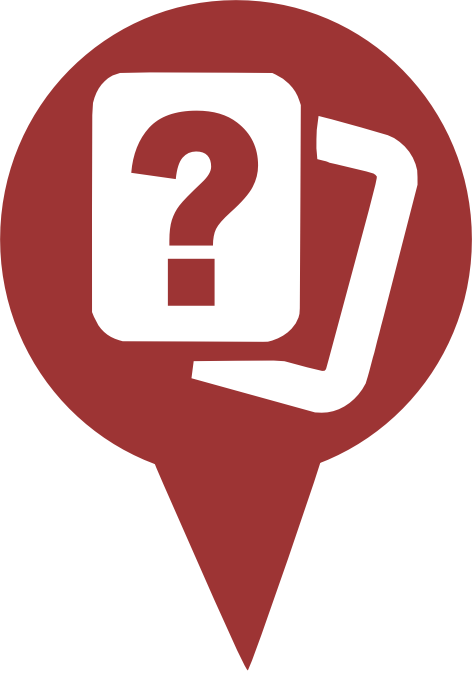
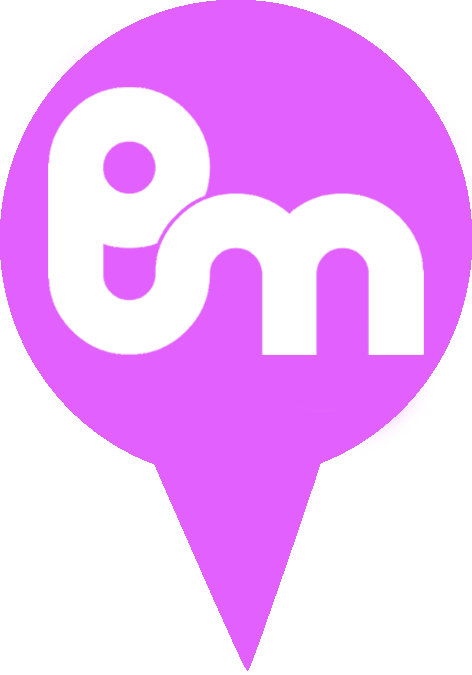
200504
pin

diff --git a/www/js/map.js b/www/js/map.js
@@ -71,9 +71,9 @@ function onDeviceReady() {
 								  var lng = localStorage.getItem("lng"); //  "12.364947"  "12.364947"
 
 								  
-								  var destIcon = new google.maps.MarkerImage("img/omino.png", null, null, null, new google.maps.Size(26,50));
-								  var figpIcon = new google.maps.MarkerImage("img/omino.png", null, null, null, new google.maps.Size(26,50));
-								  var casinoIcon = new google.maps.MarkerImage("img/omino.png", null, null, null, new google.maps.Size(26,50));
+								  var destIcon = new google.maps.MarkerImage("img/pin.png", null, null, null, new google.maps.Size(28,40));
+								  var figpIcon = new google.maps.MarkerImage("img/pin.png", null, null, null, new google.maps.Size(28,40));
+								  var casinoIcon = new google.maps.MarkerImage("img/pin.png", null, null, null, new google.maps.Size(28,40));
 
 									  var beaches = [];
 									  var posizione = 1;
@@ -560,7 +560,7 @@ function resetta() {
 		    setTimeout(function() {
 				ido.setPosition(latlng);
 				ido.setVisible(true);
-			}, 200);
+			}, 300);
         }
         
         
